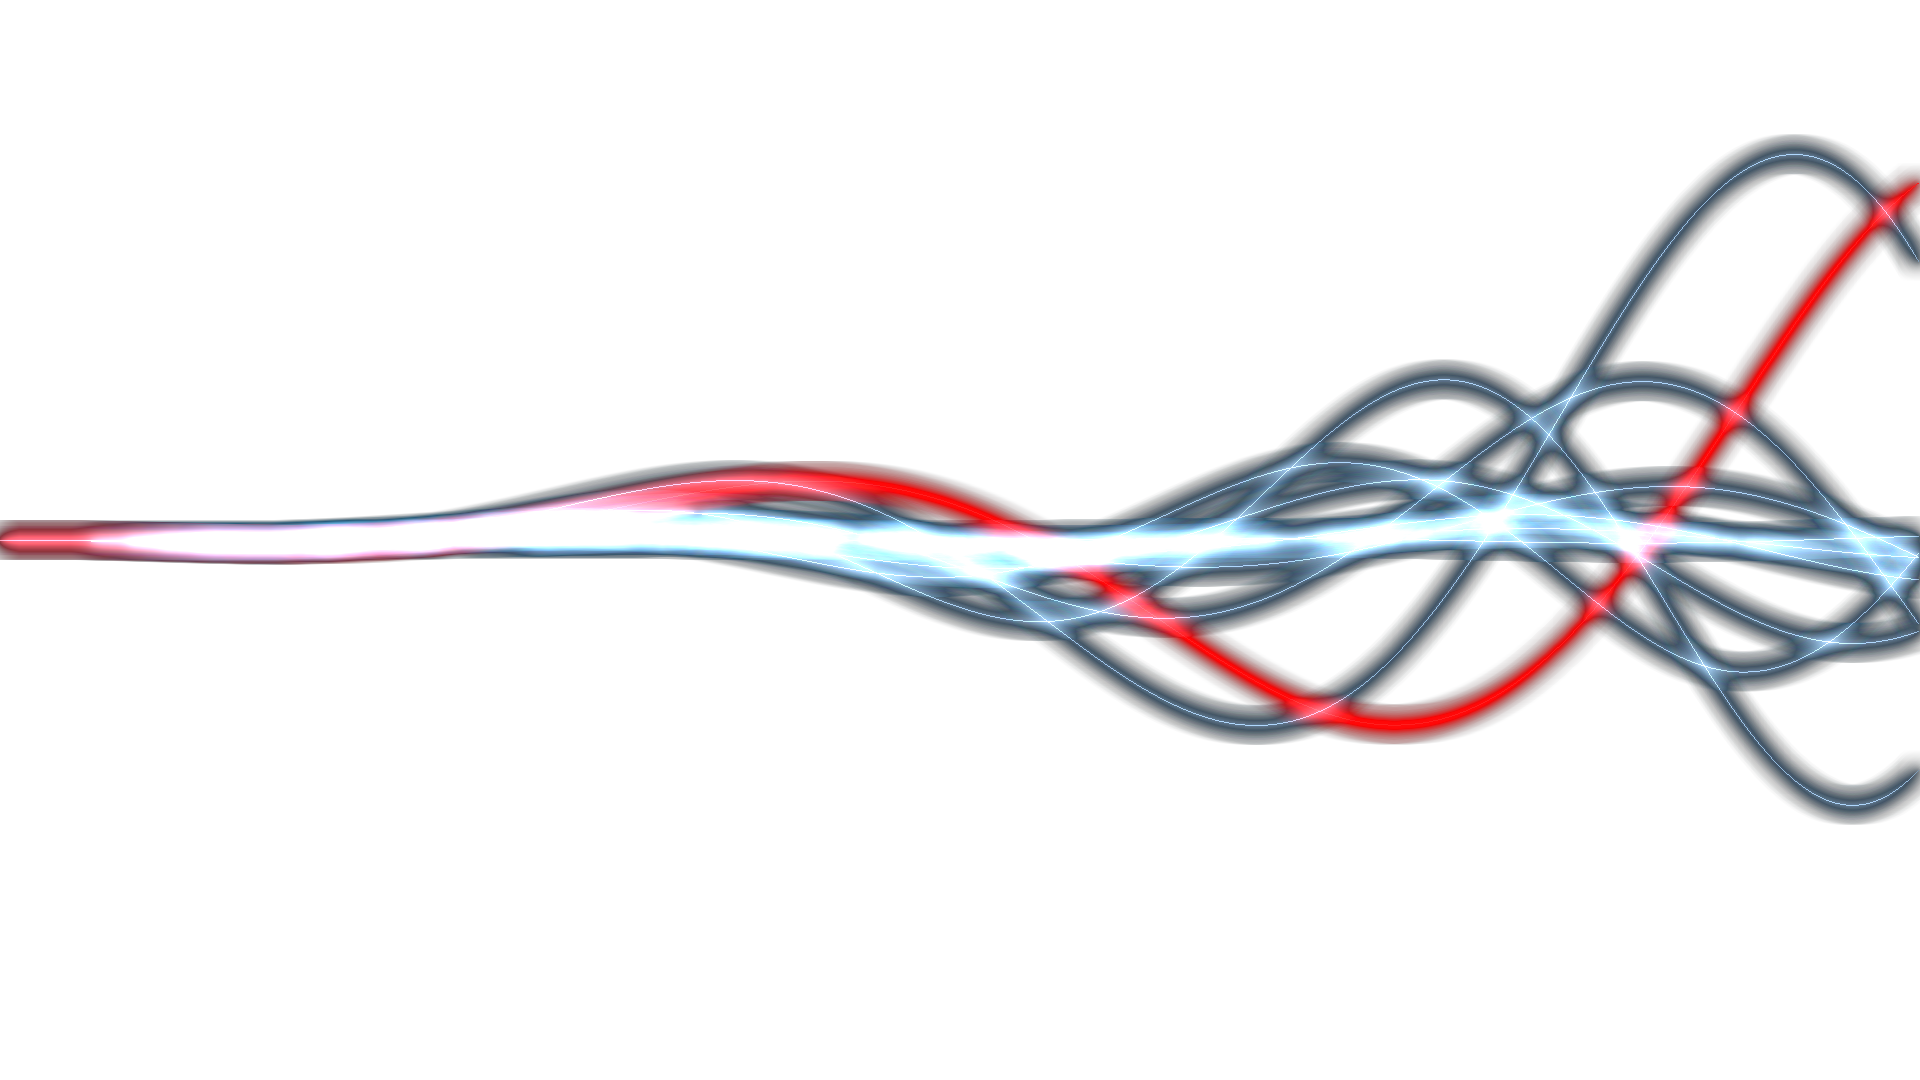
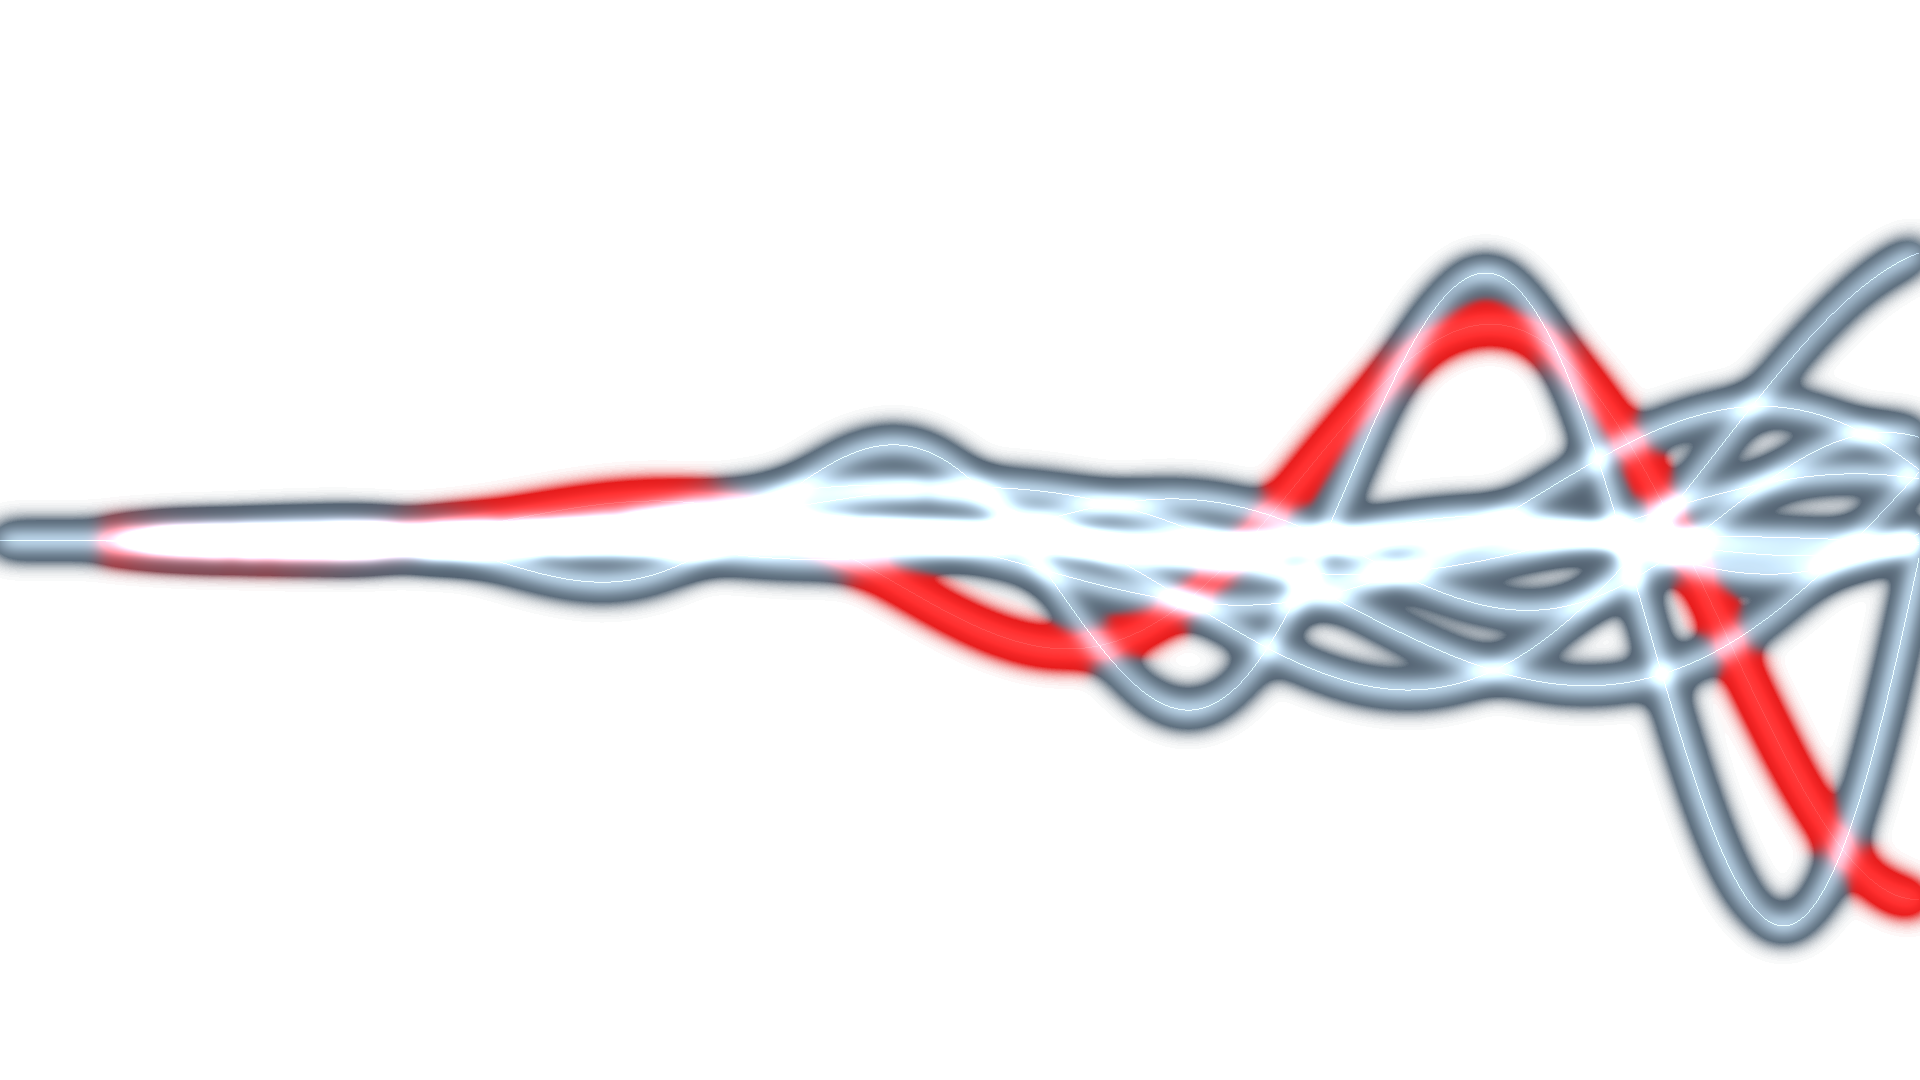
haze fixed to play nicely with transparency

Changed region(s): [[0.0, 0.1222, 1.0, 0.8861]]

diff --git a/Noise/Source.cpp b/Noise/Source.cpp
@@ -37,7 +37,7 @@ void sin_wave(sf::Uint8* pixels);
 
 int main() {
 
-	int what = 1;
+	int what = 3;
 	bool once = true;
 
 	sf::Image image;
@@ -54,7 +54,13 @@ int main() {
 	sf::Uint8* pixels = new sf::Uint8[width * height * 4];
 
 	for (int i = 0; i < width * height * 4; i++) {
-		pixels[i] = 0;
+		if (i % 4 == 3) {
+			pixels[i] = 0;
+		}
+		else {
+			pixels[i] = 0;
+		}
+		
 	}
 
 	while (window.isOpen()) {
@@ -108,12 +114,12 @@ int main() {
 			once = false;
 			image.create(width, height, pixels);
 
-			std::set<long int> colors;
+			std::set<unsigned long int> colors;
 
 			for (int i = 0; i < width * height; i++) {
-				long int color_hash = 0;
-				for (int shift = 0; shift < 3; shift++) {
-					color_hash += (long int)pixels[i * 4 + shift] * pow(256, shift);
+				unsigned long int color_hash = 0;
+				for (int shift = 0; shift < 4; shift++) {
+					color_hash += (unsigned long int)pixels[i * 4 + shift] * pow(256, shift);
 				}
 				auto search = colors.find(color_hash);
 				if (search == colors.end() ){ // if not found
@@ -121,25 +127,41 @@ int main() {
 				}
 			}
 			std::cout << colors.size() << std::endl;
-			std::for_each(colors.cbegin(), colors.cend(), [&image](long int c) {
+			for (int i = 0; i < colors.size(); i += 1000) {
+				std::cout << ' ';
+			}
+			std::cout << '|' << std::endl;
+			int counter = 0;
+			std::for_each(colors.cbegin(), colors.cend(), [&image, &counter](unsigned long int c) {
 				int r = c % 256;
 				c = c / 256;
 				int g = c % 256;
 				c = c / 256;
 				int b = c % 256 ;
-				sf::Color color(r, g, b, 255);
+				c = c / 256;
+				int a = c % 256;
+				sf::Color color(r, g, b, a);
 
-				// std::cout << r << "\t" << g << "\t" << b << std::endl;
-				int brightness = r + g + b;
-				if (brightness < 256) {
-					image.createMaskFromColor(color, (sf::Uint8)brightness);
+				image.createMaskFromColor(color, (sf::Uint8)((a - 7 * 32) * 8));
+
+				if (counter % 1000 == 0) {
+					std::cout << '#';
 				}
+				counter++;
+			
 
 			
 				}
 			);
-			
+
+			std::cout << '|' << std::endl;
+		
 			image.saveToFile(std::to_string(what) + ".png");
+			std::cout << "Image saved to " << std::to_string(what) << ".png" << std::endl;
+
+			for (int i = 3; i < width * height * 4; i += 4) {
+				pixels[i] = (pixels[i] - 7 * 32) * 8;
+			}
 		}
 	}
 
@@ -156,7 +178,7 @@ bool is_in(int x, int y) {
 
 bool is_empty(sf::Uint8* pixels, int x, int y) {
 	int index = coord_to_index(x, y);
-	for (int i = 0; i < 4; i++) {
+	for (int i = 3; i < 4; i++) {
 		if (pixels[index + i] > 0) {
 			return false;
 		}
@@ -184,11 +206,7 @@ void draw_line(sf::Uint8* pixels, double m, double c, sf::Uint8* color,int start
 			if (is_in(x, y)) {
 				int index = coord_to_index(x, y);
 				for (int i = 0; i < 4; i++) {
-					int new_color = color[i];
-					if (new_color < pixels[index + i]) {
-						new_color = pixels[index + i];
-					}
-					pixels[index + i] = new_color;
+					pixels[index + i] = color[i];
 				}
 			}
 		}
@@ -202,7 +220,7 @@ void draw_line(sf::Uint8* pixels, double m, double c, sf::Uint8* color,int start
 			if (is_in(x, y) && start <= x && x < end) {
 				int index = coord_to_index(x, y);
 				for (int i = 0; i < 4; i++) {
-					int new_color = color[i];
+					sf::Uint8 new_color = color[i];
 					if (new_color < pixels[index + i]) {
 						new_color = pixels[index + i];
 					}
@@ -326,13 +344,21 @@ void sin_storm(sf::Uint8* pixels) {
 }
 
 void haze(sf::Uint8* pixels) {
-	sf::Uint8* buffer = new sf::Uint8[width * height * 4];
+	auto* buffer = new double[width * height * 4];
+
+	auto* light_counter = new double[width * height];
+
 
 	for (int i = 0; i < width * height * 4; i++) {
 		buffer[i] = 0;
 	}
 
-	int radius = 20;
+	for (int i = 0; i < width * height; i++) {
+		light_counter[i] = 0;
+	}
+	int radius = 100;
+	double intensity = 8;
+	double dispersion = 6;
 
 	for (int x = 0; x < width; x++) {
 		for (int y = 0; y < height; y++) {
@@ -342,16 +368,18 @@ void haze(sf::Uint8* pixels) {
 						if (is_in(xd,yd)) {
 							int origin = coord_to_index(x, y);
 							int target = coord_to_index(xd, yd);
+
 							double dist = distance(x, y, xd, yd);
+							double drop_off_factor = intensity * 0.01 * (pow(3, -0.03 / dispersion * pow(dist, 2)) + pow(6, -pow(dist, 2)));
+
+							light_counter[target / 4] += drop_off_factor;
+
 							for (int i = 0; i < 3; i++) {
-								double drop_off_factor = 1 / pow(.4 * dist + 3, 2);
-								int new_color = (int)buffer[target + i] + (int)pixels[origin + i] * drop_off_factor ;
-								if (new_color > 255) {
-									new_color = 255;
-								}
-								buffer[target + i] = new_color;
+								buffer[target + i] += (double)pixels[origin + i] * drop_off_factor;
 							}
-							buffer[target + 3] = 255;
+							buffer[target + 3] += (int)pixels[origin + 3] * pow(drop_off_factor * 1.5, .5) ;
+
+							
 						}
 						
 					}
@@ -361,21 +389,23 @@ void haze(sf::Uint8* pixels) {
 		}
 	}
 
-	for (int i = 0; i < width * height * 4; i++) {
-		int new_color = (int)pixels[i] + buffer[i];
-		if (new_color > 255) {
-			new_color = 255;
+	for (int i = 0; i < width * height; i++) {
+		for (int shift = 0; shift < 3; shift++) {
+			double new_color = std::min((int)(buffer[i * 4 + shift]) + (int)pixels[i * 4 + shift], 255);
+			double color_space = (double)(buffer[i * 4 + shift]) / light_counter[i];
+			pixels[i * 4 + shift] = new_color * (256 - color_space) / 256 + color_space;
 		}
-		pixels[i] = new_color;
+		pixels[i * 4 + 3] = std::min((int)(buffer[i * 4 + 3] / 4 ), 255)/ 8 + 32 * 7;
 	}
 
 
 	delete[] buffer;
+	delete[] light_counter;
 }
 
 void sin_wave(sf::Uint8* pixels) {
-	sf::Uint8 blue[] = { 78, 94, 109, 255 };
-	sf::Uint8 accent[] = { 225, 20, 20, 255 };
+	sf::Uint8 blue[] = { 172, 197, 218, 255 }; //{ 119, 147, 175, 255 };
+	sf::Uint8 accent[] = { 255, 26, 26, 255 };
 	int waves = 30;
 	for (int wave = -waves; wave < waves; wave++) {
 		int prev_y = height / 2;
